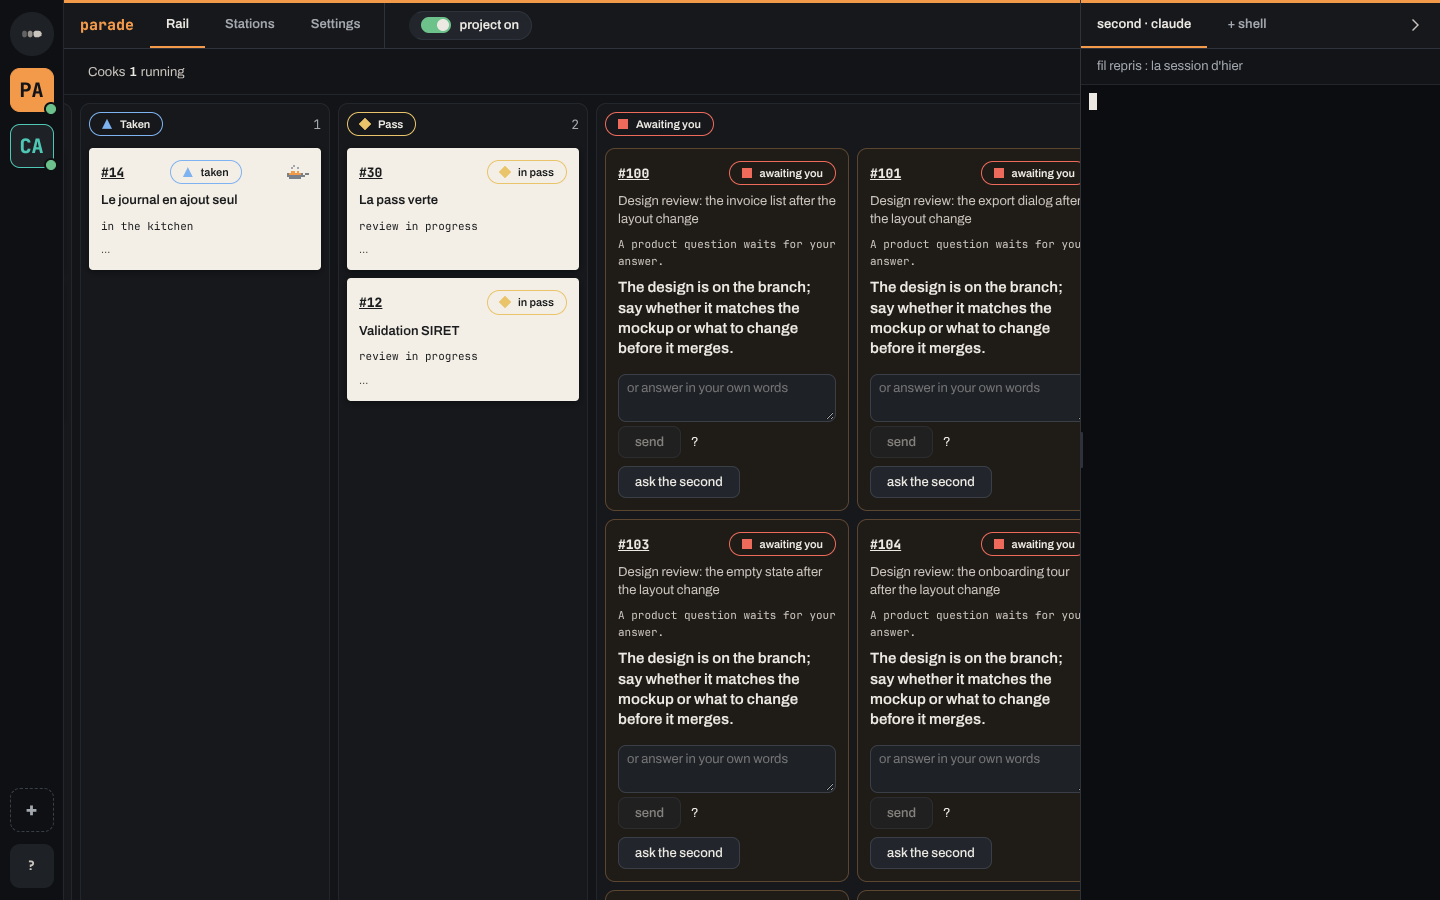
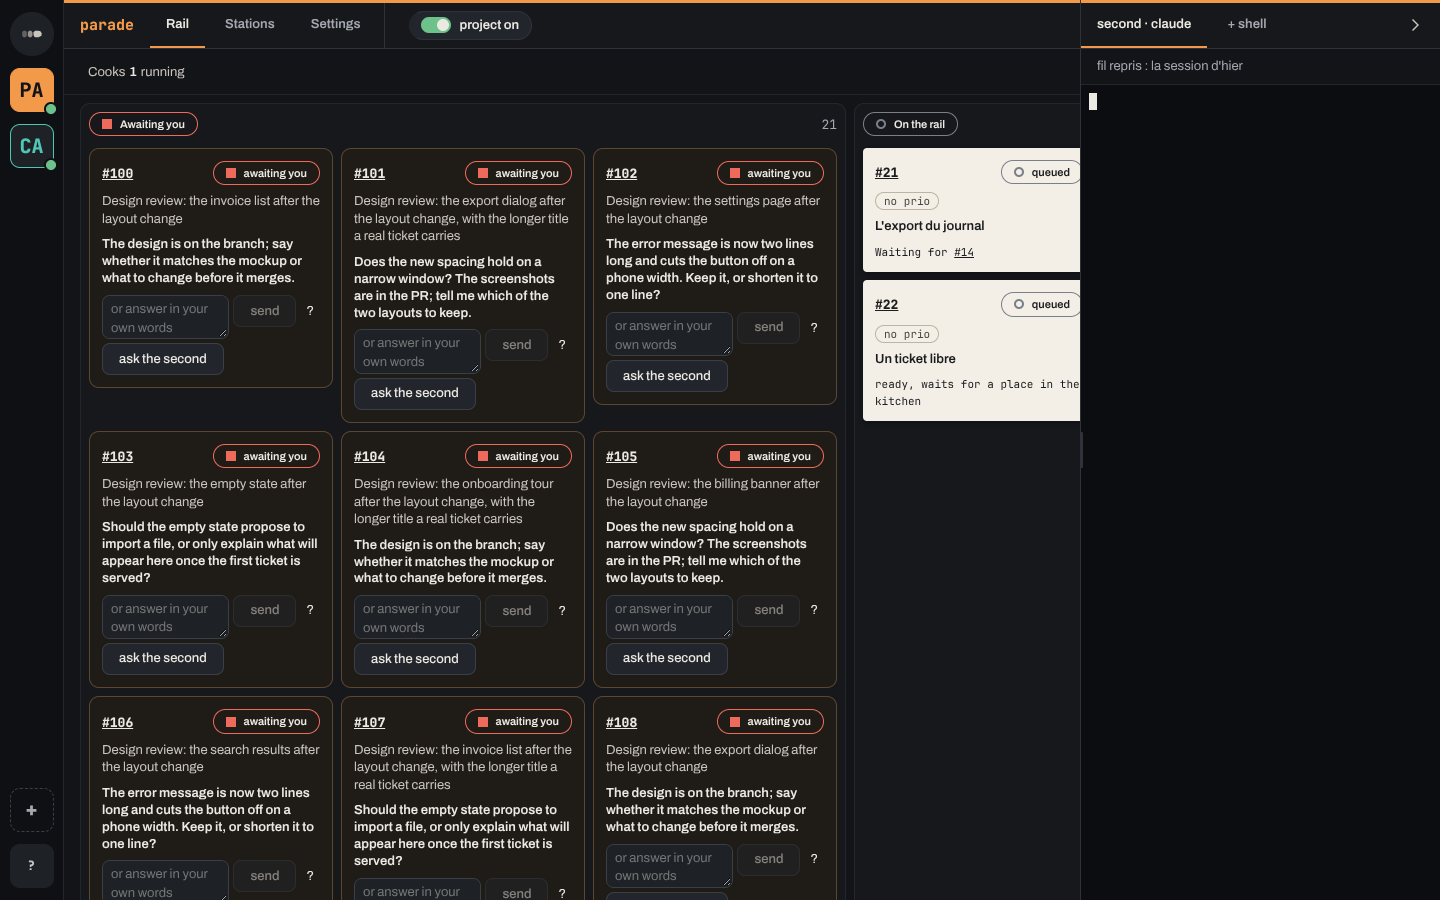
feat(#3327): a full TODO comes first, compact cards, never clipped

diff --git a/app/src/vue/vue.css b/app/src/vue/vue.css
@@ -2315,10 +2315,12 @@ main > header,
   font-weight: 400;
   color: var(--discret);
 }
-/* TODO plein (ticket 3327) : à partir de quatre cartes, la colonne prend deux pistes de la rangée, à partir de dix, trois, et ses
-   cartes se rangent en grille, plusieurs par ligne, chacune d'au moins une piste de large : jamais un mince ruban sans fin. Ce
-   sont les autres colonnes qui cèdent — la rangée défile de côté (ticket 1556) —, pas TODO. De une à trois cartes, rien ne change. */
+/* TODO plein (ticket 3327) : à partir de quatre cartes, la colonne passe en tête de la rangée et prend deux pistes, à partir de dix,
+   trois — assez pour que le titre et la question d'une carte se lisent sans être coupés, et toujours en vue : ce sont les autres
+   colonnes qui cèdent, la rangée défile de côté (ticket 1556), pas TODO. Ses cartes se rangent en grille, plusieurs par ligne, et
+   se font compactes : la question à la taille du corps, le champ sur une ligne avec « send ». De une à trois cartes, rien ne change. */
 #rail .colonne[data-colonne="Awaiting you"]:has(> ol > li:nth-child(4)) {
+  order: -1;
   grid-column: span 2;
 }
 #rail .colonne[data-colonne="Awaiting you"]:has(> ol > li:nth-child(10)) {
@@ -2328,6 +2330,30 @@ main > header,
   display: grid;
   grid-template-columns: repeat(auto-fill, minmax(230px, 1fr));
   align-items: start;
+}
+#rail .colonne[data-colonne="Awaiting you"]:has(> ol > li:nth-child(4)) .carte-todo {
+  gap: var(--pas-1);
+}
+#rail .colonne[data-colonne="Awaiting you"]:has(> ol > li:nth-child(4)) .carte-todo p.question-carte {
+  font-size: var(--taille-corps);
+  line-height: 1.3;
+}
+/* Une carte qui pose sa question n'a pas besoin de la ligne de sa sorte (« A product question waits for your answer. ») au-dessus :
+   le titre et la question disent la même chose, la place est pour eux. Sans question, la ligne reste : elle est tout ce que la carte dit. */
+#rail .colonne[data-colonne="Awaiting you"]:has(> ol > li:nth-child(4)) > ol > li:has(> .carte-todo > p.question-carte) > p.ligne-carte {
+  display: none;
+}
+#rail .colonne[data-colonne="Awaiting you"]:has(> ol > li:nth-child(4)) .carte-todo p.secondaire {
+  margin: 0;
+}
+#rail .colonne[data-colonne="Awaiting you"]:has(> ol > li:nth-child(4)) .carte-todo div.phrase {
+  flex-direction: row;
+  align-items: flex-start;
+}
+#rail .colonne[data-colonne="Awaiting you"]:has(> ol > li:nth-child(4)) .carte-todo div.phrase textarea {
+  flex: 1;
+  height: 3.4em;
+  min-height: 0;
 }
 /* « Awaiting others » ferme TODO (tickets 2985, 3071) : le bloc replié du rail, dans la colonne, sous ses cartes. Dépliées,
    les cartes d'un autre humain sont des cartes de TODO, avec en plus qui elles attendent. */

diff --git a/scripts/capture-ecran/ecrans/todo-cartes-nombre.ts b/scripts/capture-ecran/ecrans/todo-cartes-nombre.ts
@@ -1,0 +1,46 @@
+// L'espace de « parade », projet GitHub seul : `nombre` cartes de TODO, presque toutes des revues de design (#3327). Même montage que
+// todo-github-seul : `facts.attend[].chef` porte les cartes ; le bloc `awaiting` de `status` est vide. Les titres et les questions
+// diffèrent d'une carte à l'autre, certains longs : la capture montre comment un vrai texte passe à la ligne dans une piste étroite.
+import { configuration, cuisine, demarrage, type Ecran, MAINTENANT, type Rendu } from "./commun.ts";
+import { MANAGER_ALLUME, PROJETS, RENDUS } from "./cuisine-figee.ts";
+import { SECOND } from "./rail-waiting-commun.ts";
+
+const PARADE = RENDUS.parade as Rendu;
+const issue = (ticket: number) => `https://github.com/chef/parade/issues/${ticket}`;
+
+const STATUS = ["project    parade", "kitchen    open", "", "awaiting   nothing awaits the chef", "end awaiting", ...PARADE.status.split("\n").slice(5)].join("\n");
+const ECRANS = ["invoice list", "export dialog", "settings page", "empty state", "onboarding tour", "billing banner", "search results"];
+const QUESTIONS = [
+  "The design is on the branch; say whether it matches the mockup or what to change before it merges.",
+  "Does the new spacing hold on a narrow window? The screenshots are in the PR; tell me which of the two layouts to keep.",
+  "The error message is now two lines long and cuts the button off on a phone width. Keep it, or shorten it to one line?",
+  "Should the empty state propose to import a file, or only explain what will appear here once the first ticket is served?",
+];
+
+export const todoDeNCartes = (nombre: number, dit: string): Ecran => ({
+  dit,
+  largeur: 1440,
+  hauteur: 900,
+  etapes: [{ cliquer: '#projets > button[title^="parade — "]' }],
+  donnees: () => ({
+    maintenant: MAINTENANT,
+    reponses: { demarrage: demarrage(configuration(PROJETS)), espace: [SECOND] },
+    envois: cuisine({
+      ...RENDUS,
+      parade: {
+        ...PARADE,
+        facts: {
+          ...PARADE.facts,
+          attend: Array.from({ length: nombre }, (_, i) => ({
+            ticket: 100 + i,
+            titre: `Design review: the ${ECRANS[i % ECRANS.length]} after the layout change${i % 3 === 1 ? ", with the longer title a real ticket carries" : ""}`,
+            url: issue(100 + i),
+            chef: { sorte: "product-question", texte: QUESTIONS[i % QUESTIONS.length] },
+          })),
+        },
+        status: STATUS,
+        manager: MANAGER_ALLUME,
+      },
+    }),
+  }),
+});

diff --git a/scripts/capture-ecran/ecrans/todo-vingt-et-une-cartes.ts b/scripts/capture-ecran/ecrans/todo-vingt-et-une-cartes.ts
@@ -1,28 +1,4 @@
-// L'espace de « parade », projet GitHub seul : vingt et une cartes de TODO, presque toutes des revues de design (#3327).
-// Même montage que todo-github-seul : `facts.attend[].chef` porte les cartes ; le bloc `awaiting` de `status` est vide.
-import { configuration, cuisine, demarrage, type Ecran, MAINTENANT, type Rendu } from "./commun.ts";
-import { MANAGER_ALLUME, PROJETS, RENDUS } from "./cuisine-figee.ts";
-import { SECOND } from "./rail-waiting-commun.ts";
+// Vingt et une cartes de TODO, presque toutes des revues de design (#3327) : la colonne prend trois pistes de la rangée.
+import { todoDeNCartes } from "./todo-cartes-nombre.ts";
 
-const PARADE = RENDUS.parade as Rendu;
-const issue = (ticket: number) => `https://github.com/chef/parade/issues/${ticket}`;
-
-const STATUS = ["project    parade", "kitchen    open", "", "awaiting   nothing awaits the chef", "end awaiting", ...PARADE.status.split("\n").slice(5)].join("\n");
-const ATTEND = Array.from({ length: 21 }, (_, i) => ({
-  ticket: 100 + i,
-  titre: `Design review: the ${["invoice list", "export dialog", "settings page", "empty state", "onboarding tour", "billing banner", "search results"][i % 7]} after the layout change`,
-  url: issue(100 + i),
-  chef: { sorte: "product-question", texte: "The design is on the branch; say whether it matches the mockup or what to change before it merges." },
-}));
-
-export const ecran: Ecran = {
-  dit: "L'espace de « parade », projet GitHub seul : vingt et une cartes de TODO, des revues de design — la colonne prend la place qu'il lui faut (#3327)",
-  largeur: 1440,
-  hauteur: 900,
-  etapes: [{ cliquer: '#projets > button[title^="parade — "]' }],
-  donnees: () => ({
-    maintenant: MAINTENANT,
-    reponses: { demarrage: demarrage(configuration(PROJETS)), espace: [SECOND] },
-    envois: cuisine({ ...RENDUS, parade: { ...PARADE, facts: { ...PARADE.facts, attend: ATTEND }, status: STATUS, manager: MANAGER_ALLUME } }),
-  }),
-};
+export const ecran = todoDeNCartes(21, "L'espace de « parade », projet GitHub seul : vingt et une cartes de TODO, des revues de design — la colonne prend la place qu'il lui faut (#3327)");

diff --git a/app/src/vue/vue.js b/app/src/vue/vue.js
@@ -5112,7 +5112,9 @@ function placerLaRangee(projet, grille, defile) {
     grille.scrollTop = defile.haut;
     return;
   }
-  const active = /** @type {HTMLElement | undefined} */ ([...grille.children].find((colonne) => /** @type {HTMLElement} */ (colonne).dataset.actif !== undefined));
+  // La première à gauche À L'ÉCRAN, pas dans le DOM : un TODO plein passe en tête de la rangée (ticket 3327).
+  const actives = /** @type {HTMLElement[]} */ ([...grille.children]).filter((colonne) => colonne.dataset.actif !== undefined);
+  const active = actives.reduce((premiere, colonne) => (premiere === undefined || colonne.getBoundingClientRect?.().left < premiere.getBoundingClientRect().left ? colonne : premiere), /** @type {HTMLElement | undefined} */ (undefined));
   if (active === undefined || active.getBoundingClientRect === undefined) return;
   rangeesPlacees.add(projet.nom);
   grille.scrollLeft = Math.max(0, active.getBoundingClientRect().left - grille.getBoundingClientRect().left + grille.scrollLeft - 16);

diff --git a/scripts/capture-ecran/ecrans/todo-trois-cartes.ts b/scripts/capture-ecran/ecrans/todo-trois-cartes.ts
@@ -1,0 +1,4 @@
+// Trois cartes de TODO, des revues de design (#3327) : la colonne reste comme avant, une piste, ses cartes l'une sous l'autre.
+import { todoDeNCartes } from "./todo-cartes-nombre.ts";
+
+export const ecran = todoDeNCartes(3, "L'espace de « parade », projet GitHub seul : trois cartes de TODO — la colonne comme avant (#3327)");

diff --git a/scripts/capture-ecran/ecrans/todo-six-cartes.ts b/scripts/capture-ecran/ecrans/todo-six-cartes.ts
@@ -1,0 +1,4 @@
+// Six cartes de TODO, des revues de design (#3327) : la colonne prend deux pistes de la rangée.
+import { todoDeNCartes } from "./todo-cartes-nombre.ts";
+
+export const ecran = todoDeNCartes(6, "L'espace de « parade », projet GitHub seul : six cartes de TODO — deux pistes de la rangée (#3327)");

diff --git a/scripts/capture-ecran/README.md b/scripts/capture-ecran/README.md
@@ -75,7 +75,7 @@ compare que deux captures du même navigateur.
 | `espace-projet-gestes` | Le même (#1695), la fiche de #12 ouverte dans la colonne Awaiting you : sa livraison verte attend un merge à la main, la décision est connue — la fiche offre « merge the PR » en premier, puis l'issue, le second et la priorité |
 | `fiche-priorite`, `fiche-priorite-echec` | L'espace de `parade`, la fiche de #22 (`prio:2`, dans la file) ouverte, `1` choisi et « change the priority » cliqué (#1739) : l'app a changé le label `prio:` de l'issue sur GitHub, sans la box — la fiche le dit et montre `prio:1` ; puis GitHub refuse, la fiche garde `prio:2` et dit pourquoi en une ligne, la réponse de GitHub au survol |
 | `todo-github-seul` | L'espace de `parade`, projet GitHub seul (ticket 2221) : `facts` porte quatre cartes du chef lues de GitHub (`attend[].chef`) — une par issue au label `chef-todo`, la phrase de sa sorte (`blocked`, `merge-by-hand`, `product-question`, `abandoned`) et le texte du commentaire du runtime ; le numéro de chaque carte ouvre son issue |
-| `todo-vingt-et-une-cartes` | L'espace de `parade`, projet GitHub seul (#3327) : `facts` porte vingt et une cartes du chef (`attend[].chef`), des revues de design — la colonne Awaiting you prend trois pistes de la rangée et range ses cartes en grille |
+| `todo-trois-cartes`, `todo-six-cartes`, `todo-vingt-et-une-cartes` | L'espace de `parade`, projet GitHub seul (#3327) : `facts` porte trois, six puis vingt et une cartes du chef (`attend[].chef`), des revues de design aux titres et questions inégaux (`ecrans/todo-cartes-nombre.ts`) — à trois, la colonne Awaiting you est celle d'avant, octet pour octet ; à six elle prend deux pistes de la rangée, à vingt et une trois, en tête, et range ses cartes compactes en grille |
 | `todo-cartes-assignees` | L'espace de `parade` vu par alice, qui n'est pas le chef (tickets 2761, 2985) : son TODO porte d'abord les deux cartes `chef-todo` qui lui sont assignées sur GitHub (#41, #47), chacune avec les gestes du chef, puis « Awaiting others (2) », replié, pour celle de bob et celle du chef — le partage de `app/src/vue/cartes-assignees/` |
 | `validation-design`, `validation-design-telephone` | La carte « Validate its screen » de #61 sur `parade`, projet GitHub seul (ticket 3185) : la livraison design de #58 (PR #60) que la pass retient pour le chef — la question, les captures avant et après, le lien de la PR, « Validate », le champ du commentaire et « Send back to the kitchen » (1440 × 900) ; puis la même carte ouverte depuis la liste du téléphone, la page entière (390 × 1240) |
 | `carte-sensible`, `carte-sensible-note` | Le ticket sensible sur `parade`, projet GitHub seul (ticket 3224) : #30, au label `sensitive`, porte la marque « sensitive » dans Pass, les autres cartes non ; dans TODO, la carte « review before merge » #62 qui retient sa PR #41 — la question, le lien de la PR, « Merge », le champ de la note vide et « Send back » éteint (1440 × 900) ; puis la même, la note tapée, « Send back » allumé |
